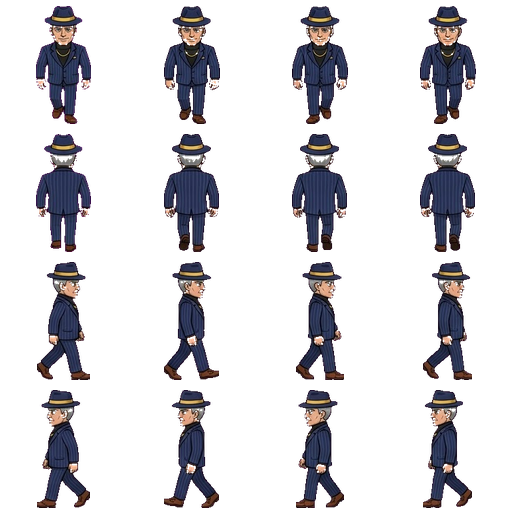
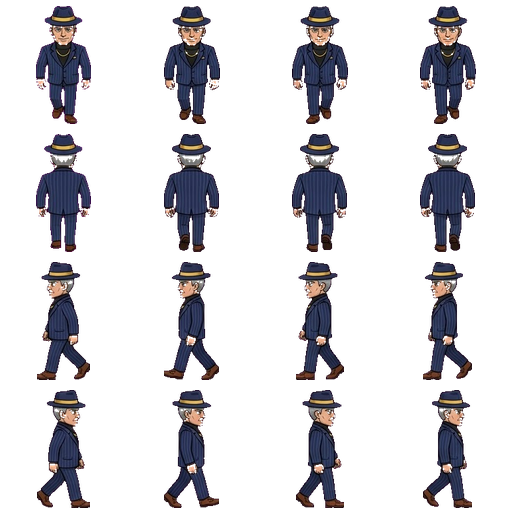
fix: i personaggi smettono di girare la faccia camminando
Il compositore dava per scontato che tutte le figure di profilo scelte
dal provino guardassero a sinistra, e specchiava solo la riga di destra.
Ma il generatore non rispetta il verso richiesto: nei fogli ci sono pose
rivolte dall'altra parte. Kai ne aveva due su quattro girate, l'armiere
una, e venditore, mafia e capo avevano tutte e quattro le pose invertite
— quei tre camminavano di spalle al senso di marcia.

Quali figure raddrizzare sta ora accanto a quali figure usare, che è la
stessa scelta fatta a occhio sullo stesso provino.

Claude-Session: https://claude.ai/code/session_01Mgsnttb4zVHcLAuXM4pdZX

diff --git a/strumenti/componi.py b/strumenti/componi.py
@@ -9,6 +9,11 @@ comune e centrata, in una griglia di 4 colonne per 4 righe.
 L'ordine delle righe è quello che il gioco si aspetta: fronte, schiena,
 sinistra, destra. La destra si ottiene specchiando la sinistra — un profilo
 speculare è indistinguibile da uno disegnato apposta, e costa la metà.
+
+Perché serve `specchia`: il generatore non rispetta il verso richiesto, e fra
+le figure di profilo di uno stesso foglio ce ne sono di rivolte a destra. Se
+finiscono nella riga così come sono, il personaggio gira la faccia a metà
+camminata. Vanno raddrizzate qui, una volta sola, non a occhio dal gioco.
 """
 
 from PIL import Image
@@ -28,12 +33,14 @@ RIGHE = 4
 # Per ogni personaggio: quali figure usare, e quanto è alto rispetto alla cella.
 # L'altezza tiene le proporzioni tra i personaggi: l'armiere è un armadio,
 # Kai è un ragazzino.
+# `specchia` elenca le posizioni di `lato` (0-3) la cui figura guarda a destra
+# nel foglio generato: vanno ribaltate perché la riga guardi tutta a sinistra.
 SCELTE = {
-    "kai":       {"fronte": [0, 1, 2, 3], "schiena": [4, 5, 6, 7],  "lato": [8, 11, 14, 21], "altezza": 0.84},
-    "armiere":   {"fronte": [0, 1, 2, 3], "schiena": [4, 5, 6, 7],  "lato": [8, 11, 16, 20], "altezza": 0.94},
-    "venditore": {"fronte": [0, 1, 2, 3], "schiena": [8, 10, 12, 13], "lato": [16, 18, 19, 20], "altezza": 0.87},
-    "mafia":     {"fronte": [0, 1, 2, 3], "schiena": [8, 9, 10, 11], "lato": [16, 17, 18, 20], "altezza": 0.92},
-    "capo":      {"fronte": [0, 1, 2, 3], "schiena": [8, 9, 10, 11], "lato": [16, 17, 18, 20], "altezza": 0.84},
+    "kai":       {"fronte": [0, 1, 2, 3], "schiena": [4, 5, 6, 7],  "lato": [8, 11, 14, 21], "specchia": [2, 3],       "altezza": 0.84},
+    "armiere":   {"fronte": [0, 1, 2, 3], "schiena": [4, 5, 6, 7],  "lato": [8, 11, 16, 20], "specchia": [1],          "altezza": 0.94},
+    "venditore": {"fronte": [0, 1, 2, 3], "schiena": [8, 10, 12, 13], "lato": [16, 18, 19, 20], "specchia": [0, 1, 2, 3], "altezza": 0.87},
+    "mafia":     {"fronte": [0, 1, 2, 3], "schiena": [8, 9, 10, 11], "lato": [16, 17, 18, 20], "specchia": [0, 1, 2, 3], "altezza": 0.92},
+    "capo":      {"fronte": [0, 1, 2, 3], "schiena": [8, 9, 10, 11], "lato": [16, 17, 18, 20], "specchia": [0, 1, 2, 3], "altezza": 0.84},
 }
 
 
@@ -70,10 +77,15 @@ def componi(nome):
         scelta["lato"],
     ]
 
+    specchia = set(scelta.get("specchia", []))
+
     for r, indici in enumerate(righe):
         for c, i in enumerate(indici):
             pezzo = tutti[i]
-            if r == 3:
+            # Prima si raddrizza la figura verso sinistra, poi la riga di
+            # destra ribalta tutto: due ribaltamenti si annullano.
+            gira = (r >= 2 and c in specchia) != (r == 3)
+            if gira:
                 pezzo = pezzo.transpose(Image.FLIP_LEFT_RIGHT)
             posa(tela, pezzo, c, r, altezza_utile)
 
